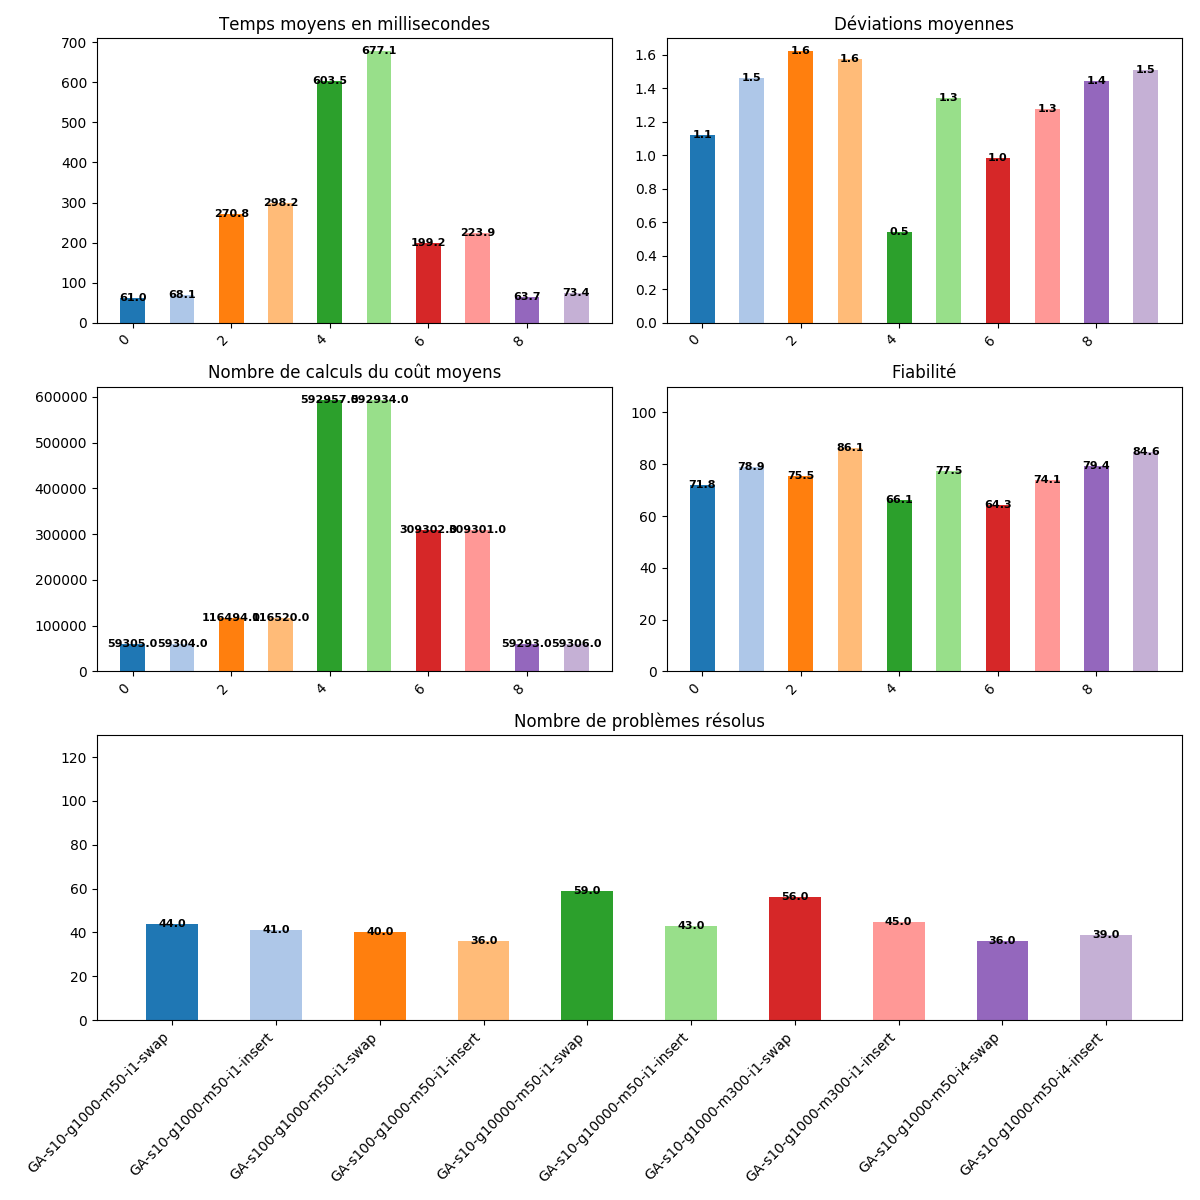
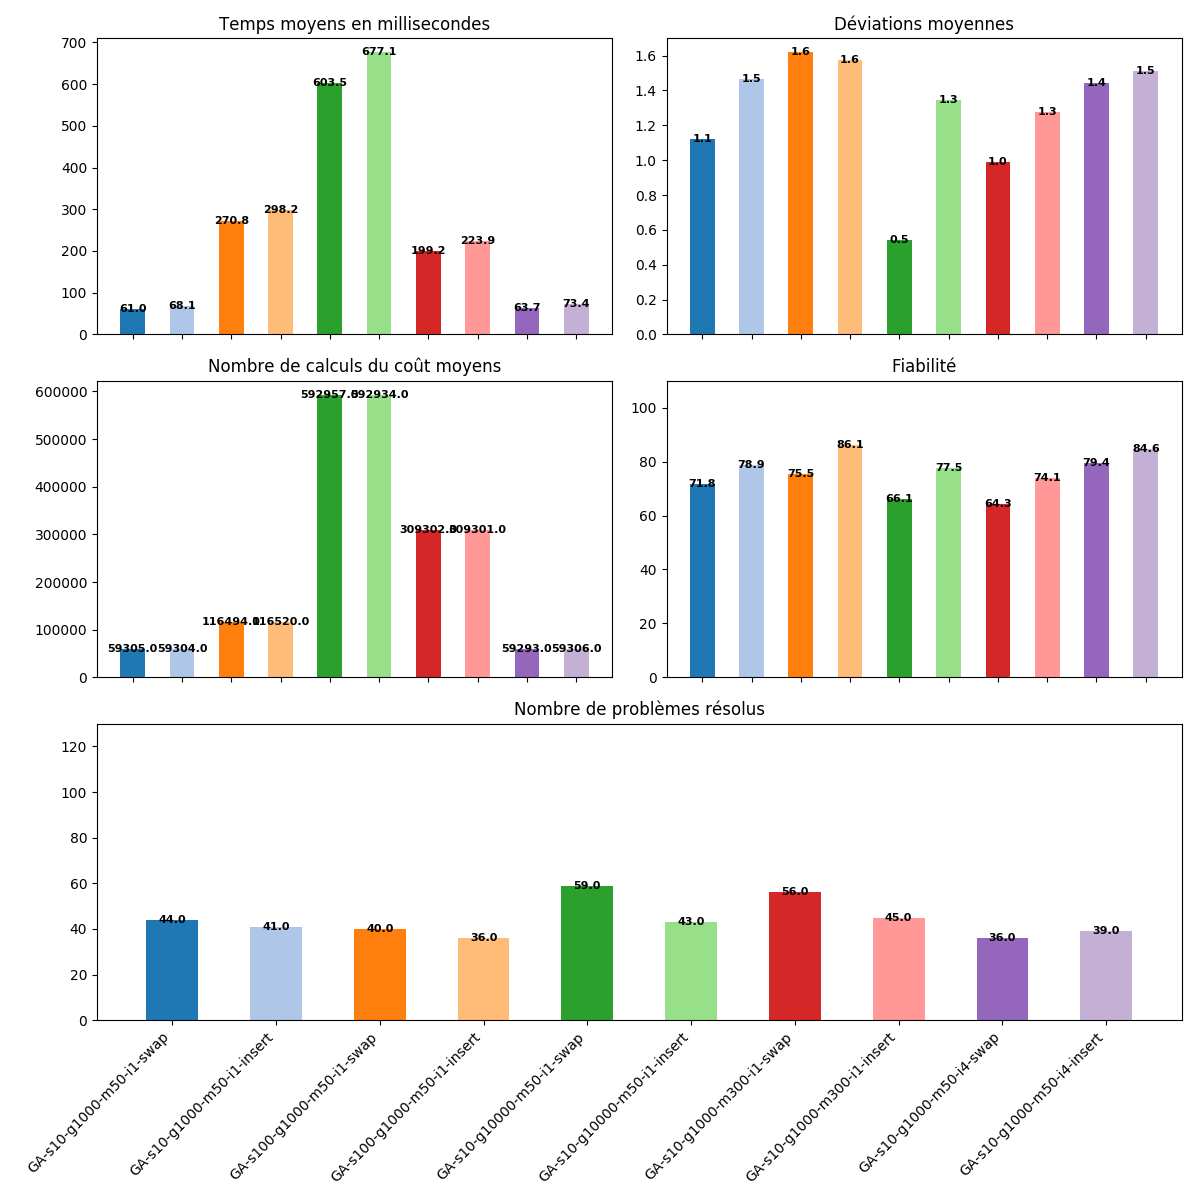
final commit

diff --git a/save/create_graph.py b/save/create_graph.py
@@ -50,6 +50,7 @@ ax5 = plt.subplot(gs[2, :])
 
 print(len([i for i in range(len(temps))]))
 print(len([v for v in order]))
+plt.setp((ax1, ax2, ax3, ax4), xticks=[i for i in range(len(temps))], xticklabels=["" for _ in order])
 plt.setp((ax5), xticks=[i for i in range(len(temps))], xticklabels=[v for v in order])
 
 rect1 = ax1.bar(x, temps, width = barWidth, color=rgba, linewidth = 1)
@@ -69,7 +70,6 @@ rect5 = ax5.bar(x, find, width = barWidth, color=rgba, linewidth = 1)
 ax5.set_title(fields_names[4])
 ax5.set_ylim((0, 130))
 
-"""
 plt.setp(ax1.get_xticklabels(), rotation=45)
 plt.setp(ax2.get_xticklabels(), rotation=45)
 plt.setp(ax3.get_xticklabels(), rotation=45)
@@ -81,7 +81,6 @@ plt.setp(ax2.get_xticklabels(), ha='right')
 plt.setp(ax3.get_xticklabels(), ha='right')
 plt.setp(ax4.get_xticklabels(), ha='right')
 plt.setp(ax5.get_xticklabels(), ha='right')
-"""
 
 def autolabels(rects, ax):
   for rect in rects:
